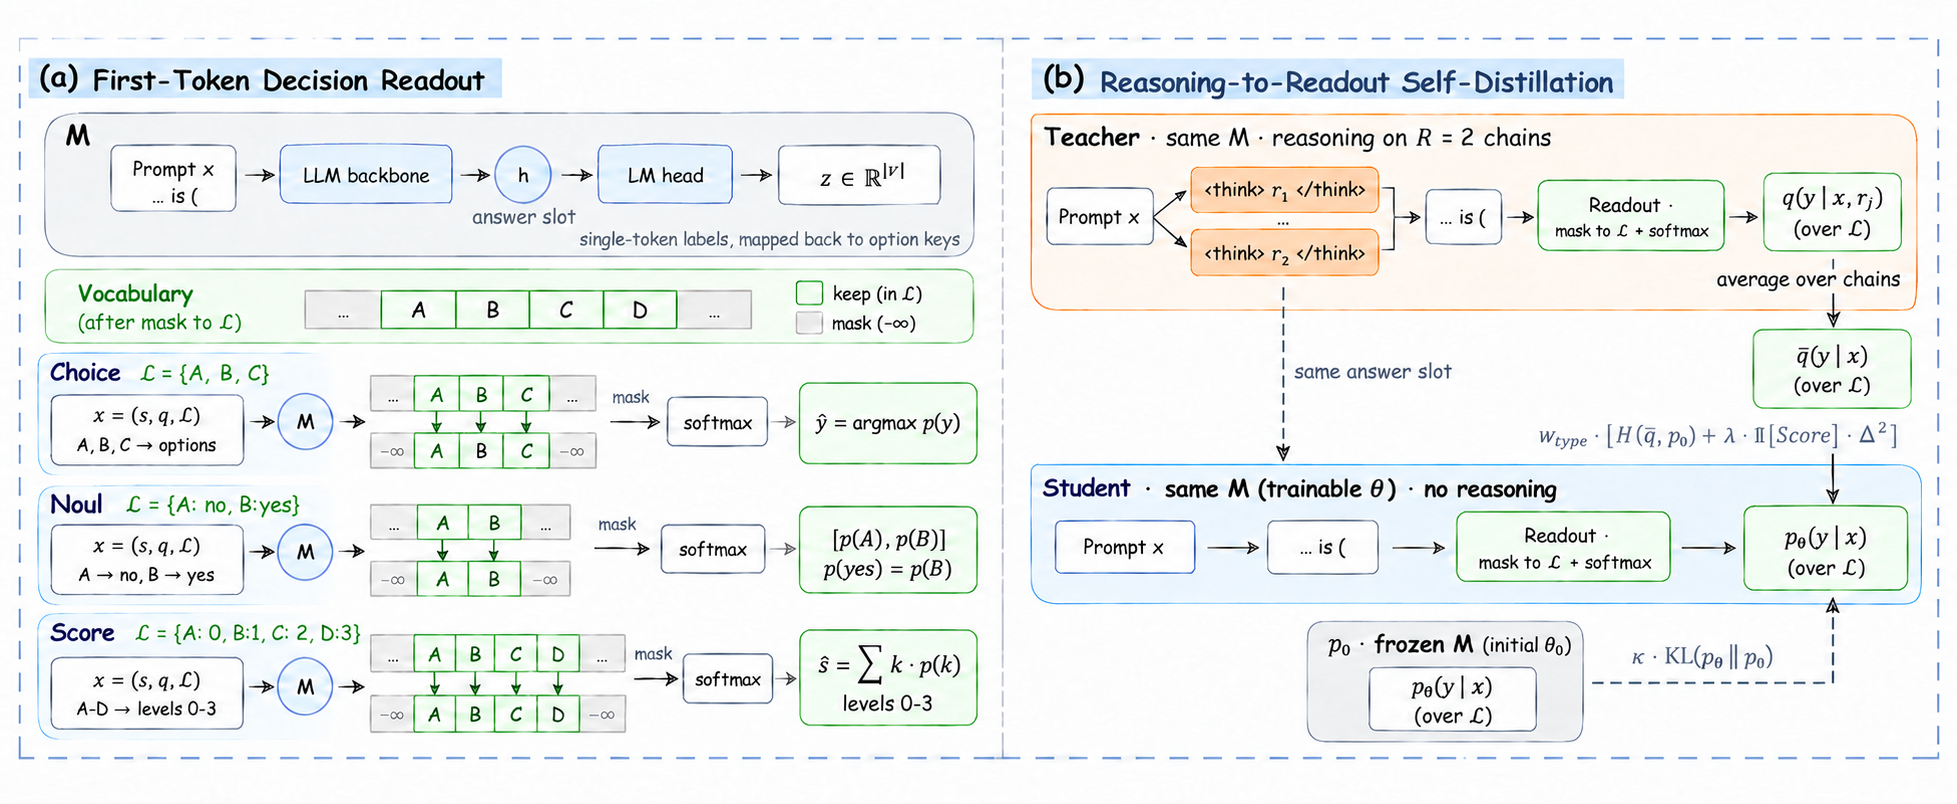
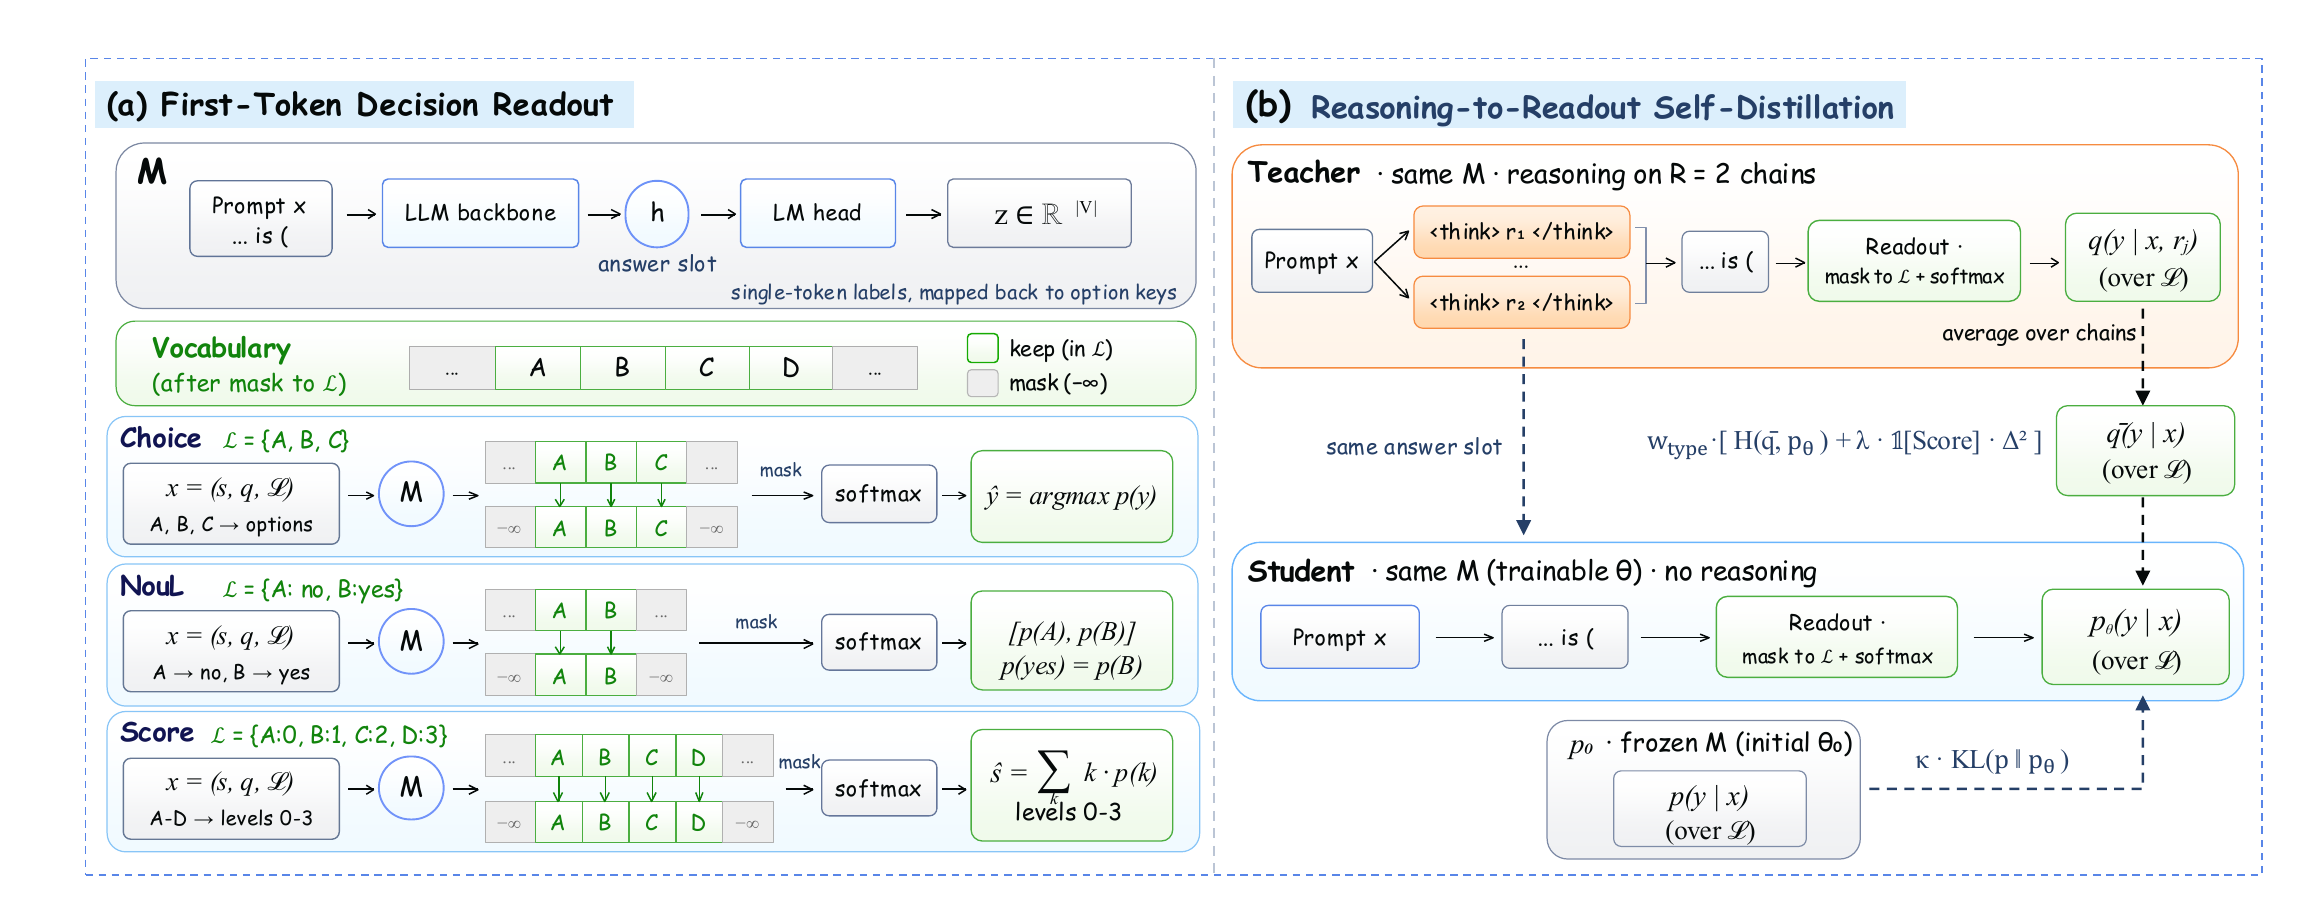
Use paper framework figures and left-align section intros

Changed region(s): [[0.0, 0.0311, 0.9974, 0.9639]]

diff --git a/index.html b/index.html
@@ -26,7 +26,7 @@
 
     <section class="container section narrow" id="abstract"><h2>Abstract</h2><p>General decision models such as Jev offer an efficient way to make structured judgments and selections. We ask which decisions they can make reliably and what happens when those decisions become part of larger systems. <strong>JEVal</strong> is a bilingual benchmark of 11,257 instances from 36 datasets in 10 domains; we use it to evaluate 25 decision-model and generative-LLM configurations. Decision models are most competitive when the relevant evidence is in the input, but struggle more with specialist knowledge and faithful probability estimates. In τ-bench, faster local choices shorten the median agent episode while reducing task success. In social simulation, decision models approach strong LLMs on individual survey prediction at lower inference cost, yet still show profiling gaps, aggregate estimation errors, and bias. Finally, we introduce <strong>InnerJev-4B</strong> and <strong>InnerJev-27B</strong>: open models that distill their own reasoning into a single-pass first-token decision.</p></section>
 
-    <section class="container section" id="benchmark"><h2>JEVal benchmark</h2><p class="section-lead">JEVal puts diverse tasks into a shared decision interface: choose an option, make a binary judgment, or assign a score. Its ten domains test whether a model can move from evidence-based judgments to specialist knowledge, long-context understanding, and agent or tool choices without task-specific retraining.</p><figure class="figure"><img src="assets/bench.png" alt="JEVal benchmark construction and distribution across ten domains, question types, and input lengths." width="1664" height="741" loading="lazy"><figcaption>11,257 bilingual instances from 36 datasets across 10 application domains.</figcaption></figure></section>
+    <section class="container section" id="benchmark"><h2>JEVal benchmark</h2><p class="section-lead">JEVal puts diverse tasks into a shared decision interface: choose an option, make a binary judgment, or assign a score. Its ten domains test whether a model can move from evidence-based judgments to specialist knowledge, long-context understanding, and agent or tool choices without task-specific retraining.</p><figure class="figure"><img src="assets/bench.png" alt="JEVal benchmark framework: sources, data processing, a unified decision task, evaluation, domain composition, and input lengths." width="2105" height="960" loading="lazy"><figcaption>11,257 bilingual instances from 36 datasets across 10 application domains.</figcaption></figure></section>
 
     <section class="container section" id="results">
       <h2>Experimental results</h2><p class="section-lead">We evaluate isolated decisions, controlled probability questions, interactive agents, and large-scale social simulations.</p>
@@ -41,7 +41,7 @@
       <div class="result-block"><h3>Social simulation at scale</h3><p>On 277,500 SocioBench respondent–question pairs, InnerJev-27B attains 39.87% accuracy at 8.36 seconds per item, close to thinking DeepSeek-V4-Flash-0731 at 40.41% and 211.65 seconds. In ElectionSim, about 330,000 simulated voters yield correct calls for 47 of 51 states and 12 of 15 battleground states. Yet vote-share errors are about twice those of the original generative pipeline, and the simulation overestimates the Democratic share.</p><figure class="figure"><img src="assets/electionsim_map.png" alt="ElectionSim state-level predicted winners and vote-share errors for InnerJev-27B." loading="lazy"><figcaption>InnerJev-27B preserves most state-level winners but misses four Trump-won states and shows vote-share bias.</figcaption></figure></div>
     </section>
 
-    <section class="container section" id="method"><h2>InnerJev</h2><p class="section-lead">The First-Token Decision Readout restricts an open-weight LLM's next-token probabilities to valid option labels, producing a structured decision in one forward pass. Reasoning-to-Readout Self-Distillation then teaches this readout to match the distribution the same model reaches after reasoning, without gold labels or a stronger teacher.</p><figure class="figure"><img src="assets/method.png" alt="InnerJev first-token decision readout and reasoning-to-readout self-distillation process." width="1957" height="804" loading="lazy"><figcaption>The same readout handles choice, binary, and score decisions; self-distillation transfers post-reasoning decisions to the first token.</figcaption></figure><figure class="figure"><img src="assets/pareto_frontier_v2.png" alt="JEVal accuracy against mean latency for short inputs, showing InnerJev-4B and InnerJev-27B on the Pareto frontier." loading="lazy"><figcaption>Accuracy–latency comparison for inputs up to 1K tokens. Open models run on one H100; hosted Jev includes network transport, so timings are not matched-hardware measurements.</figcaption></figure></section>
+    <section class="container section" id="method"><h2>InnerJev</h2><p class="section-lead">The First-Token Decision Readout restricts an open-weight LLM's next-token probabilities to valid option labels, producing a structured decision in one forward pass. Reasoning-to-Readout Self-Distillation then teaches this readout to match the distribution the same model reaches after reasoning, without gold labels or a stronger teacher.</p><figure class="figure"><img src="assets/method.png" alt="InnerJev framework: first-token decision readout for choice, binary, and score tasks, followed by reasoning-to-readout self-distillation." width="2310" height="918" loading="lazy"><figcaption>The same readout handles choice, binary, and score decisions; self-distillation transfers post-reasoning decisions to the first token.</figcaption></figure><figure class="figure"><img src="assets/pareto_frontier_v2.png" alt="JEVal accuracy against mean latency for short inputs, showing InnerJev-4B and InnerJev-27B on the Pareto frontier." loading="lazy"><figcaption>Accuracy–latency comparison for inputs up to 1K tokens. Open models run on one H100; hosted Jev includes network transport, so timings are not matched-hardware measurements.</figcaption></figure></section>
 
     <section class="container section" id="resources"><h2>Resources</h2><p class="section-lead">Code, benchmark data, model weights, and training data released with the paper.</p>
       <div class="resource-groups">

diff --git a/styles.css b/styles.css
@@ -41,6 +41,8 @@ h2 { text-align: center; font-size: clamp(1.65rem, 3vw, 2.1rem); letter-spacing:
 h3 { font-size: 1.35rem; margin-bottom: 11px; }
 .section p { font-size: 1.02rem; }
 .section-lead { max-width: 760px; margin: 0 auto 30px; text-align: center; color: var(--muted); }
+#benchmark h2, #results h2, #method h2 { text-align: left; }
+#benchmark .section-lead, #results .section-lead, #method .section-lead { margin-left: 0; margin-right: 0; text-align: left; }
 .figure { margin: 28px auto 0; }
 .figure img { width: 100%; border: 1px solid #edf0f2; border-radius: 4px; }
 .compact-figure { max-width: 850px; }
